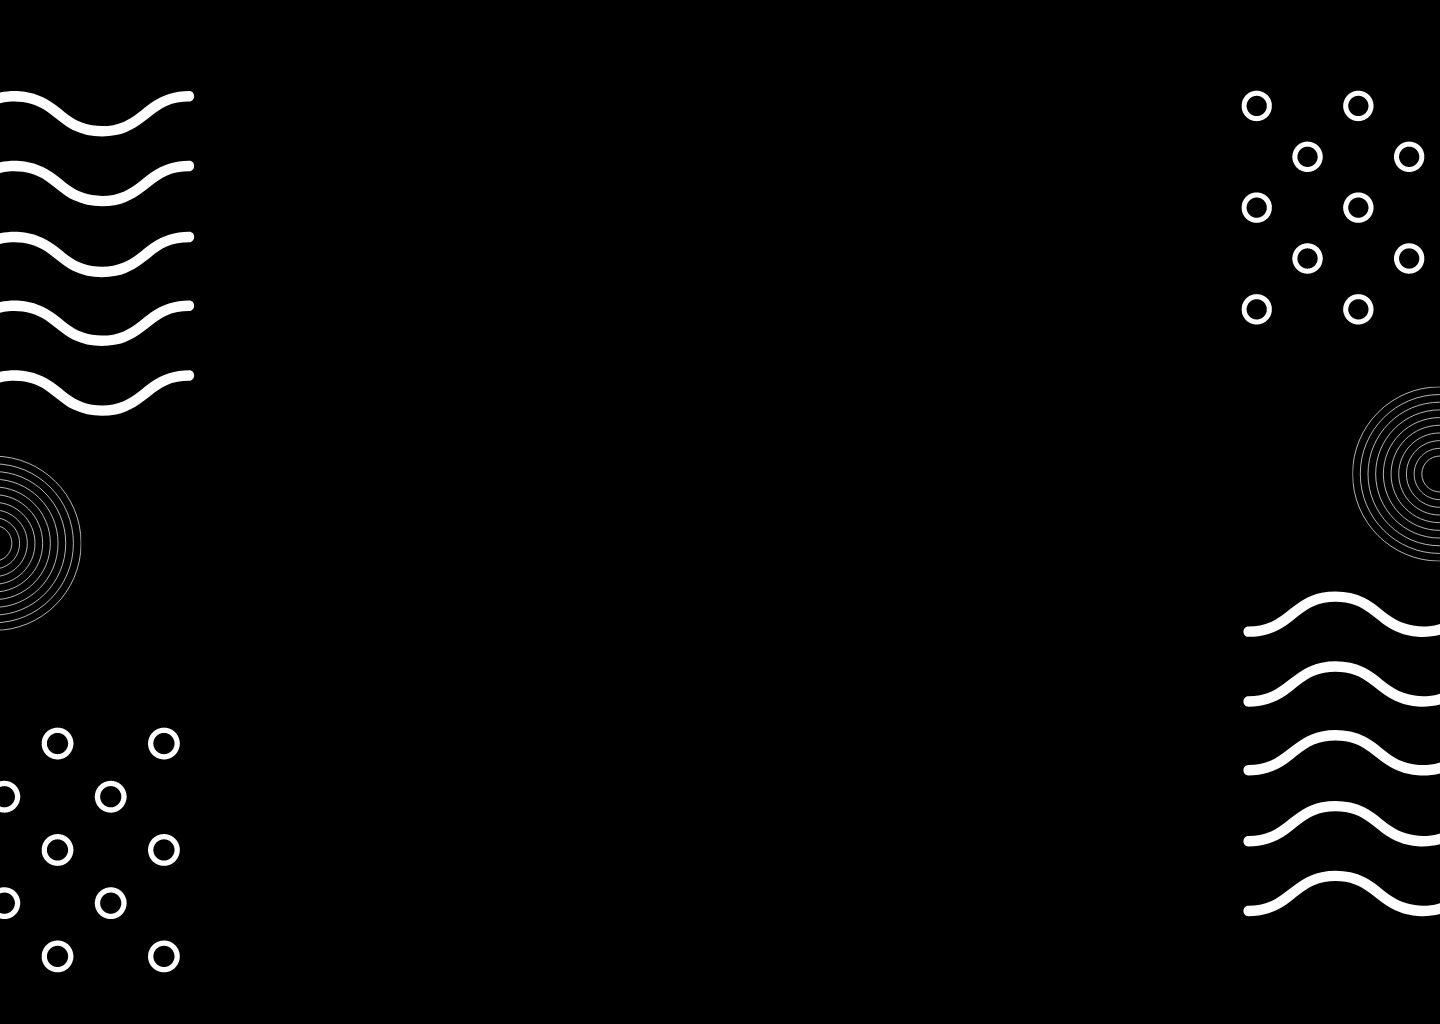
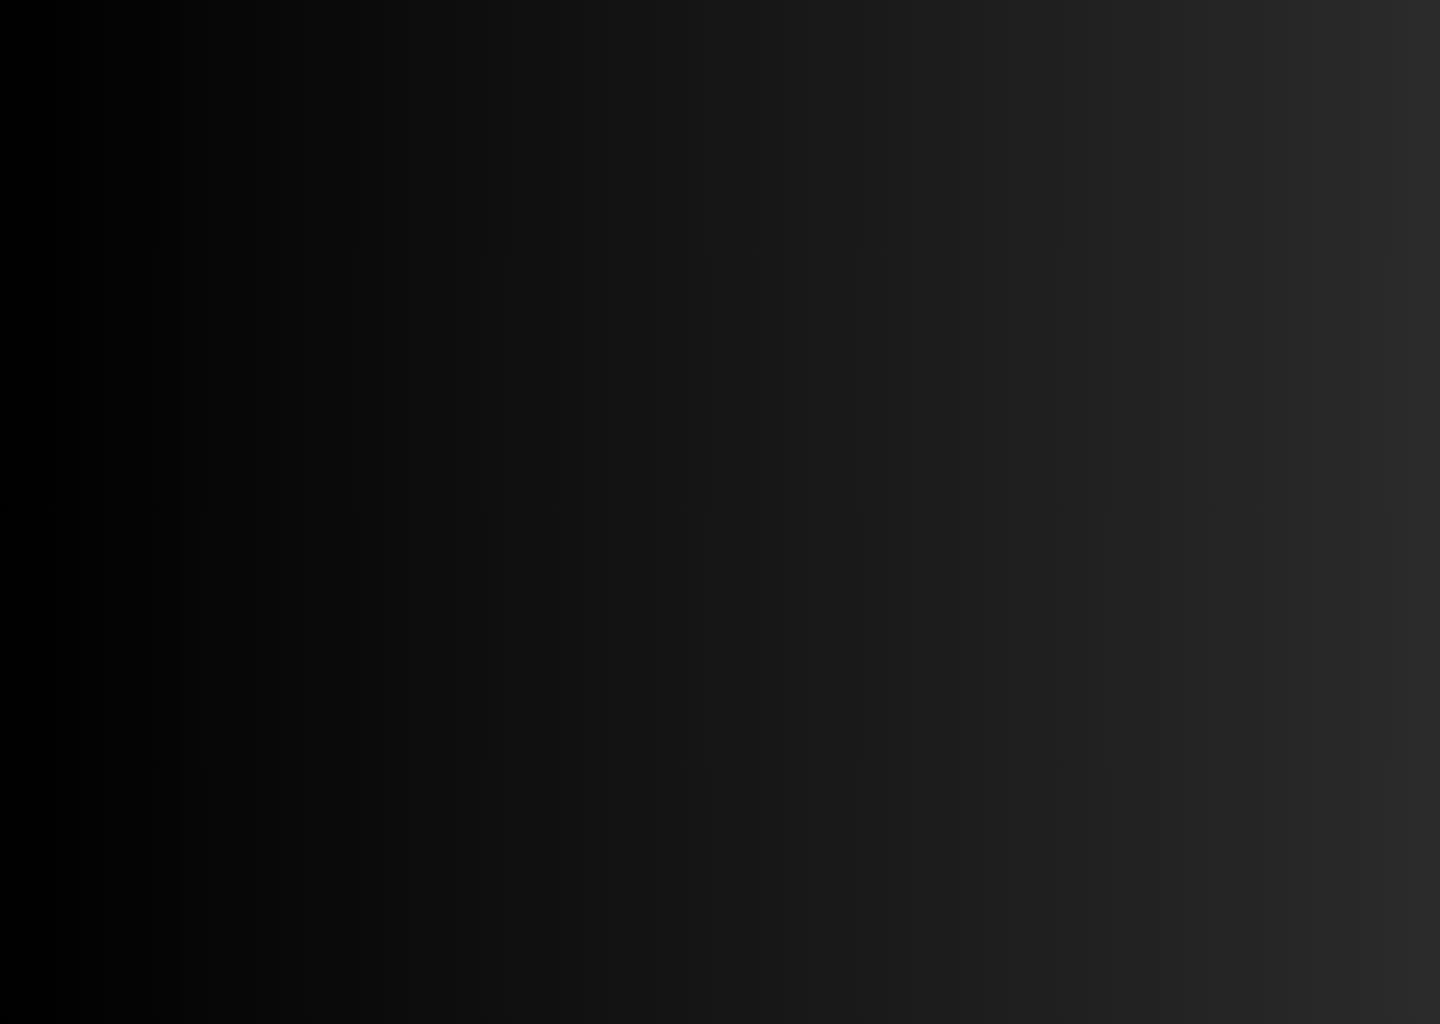
Alterations text and images background

diff --git a/index.html b/index.html
@@ -61,8 +61,6 @@
       Feito com ♥ no curso Discover da <a href="https://rocketseat.com.br" target="_blank"> Rocketseat</a>
     </footer>
 
-    <footer>Imagem de fundo : Canva</footer>
-
     <script type="module" src="https://unpkg.com/ionicons@7.1.0/dist/ionicons/ionicons.esm.js"></script>
     <script nomodule src="https://unpkg.com/ionicons@7.1.0/dist/ionicons/ionicons.js"></script>
 
